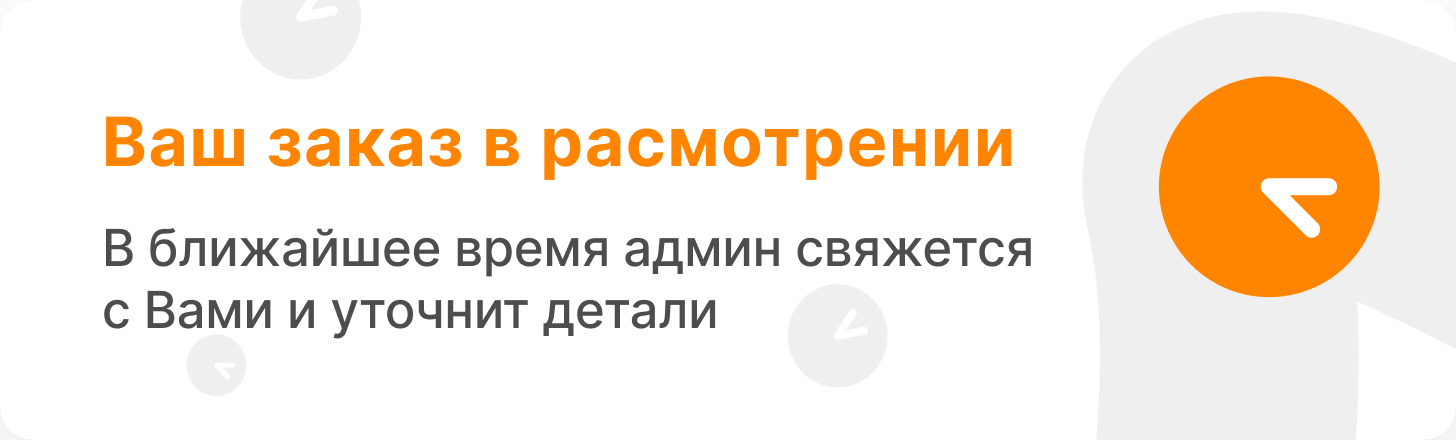
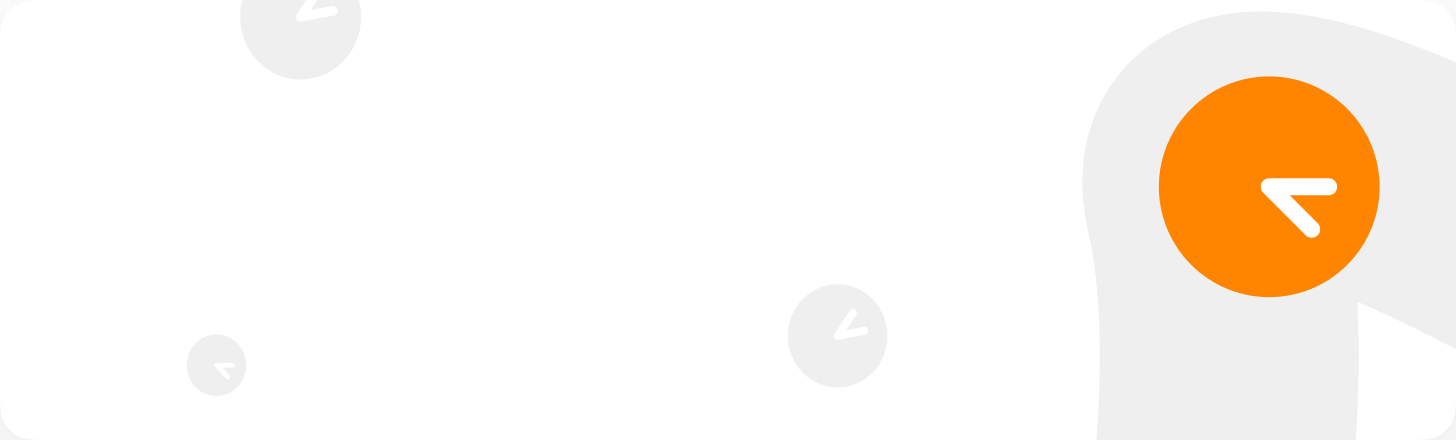
text-changed

Changed region(s): [[0.0618, 0.2659, 0.7109, 0.4136], [0.0618, 0.5023, 0.7109, 0.6205], [0.0618, 0.65, 0.4945, 0.7682]]

diff --git a/src/components/Hero/index.tsx b/src/components/Hero/index.tsx
@@ -13,6 +13,8 @@ import './style.scss';
 import { Pagination } from 'swiper/modules';
 import { Swiper, SwiperSlide } from 'swiper/react';
 
+import { statusMessages } from 'pages/Order/enums';
+
 const Hero = () => {
   const user = JSON.parse(localStorage.getItem('users') ?? '{}');
   const venue = JSON.parse(localStorage.getItem('venue') ?? '{}');
@@ -28,7 +30,33 @@ const Hero = () => {
     phone: `${user.phoneNumber}`,
     venueSlug: venue.slug,
   });
+
   const [orders, setOrders] = useState<IOrder[] | undefined>([]);
+
+  const getStatusData = (serviceMode: number, status: number) => {
+    if (!statusMessages[serviceMode]) {
+      return {
+        text: 'Спасибо, заказ обрабатывается',
+        color: 'text-orange-500',
+      };
+    }
+    
+    const statusObj =
+      statusMessages[serviceMode][status] ||
+      statusMessages[serviceMode][0];
+
+    let colorClass = 'text-orange-500';
+    if (status === 1) {
+      colorClass = 'text-green-500';
+    } else if (status === 7) {
+      colorClass = 'text-red-500';
+    }
+
+    return {
+      text: statusObj.title.text,
+      color: colorClass,
+    };
+  };
 
   useEffect(() => {
     if (fetchedOrders) {
@@ -72,38 +100,45 @@ const Hero = () => {
   };
 
   return (
-    <section className='hero'>
+    <section className="hero">
       {bannersLoading && <p>Загрузка баннеров...</p>}
       {bannersError && <p>Ошибка при загрузке баннеров</p>}
 
-      {/* Единый Swiper для заказов и баннеров */}
       <Swiper
         pagination={{ dynamicBullets: true }}
         modules={[Pagination]}
-        className='hero-swiper'
+        className="hero-swiper"
       >
-        {orders?.map((order) => (
-          <SwiperSlide key={`order-${order.id}`}>
-            <div
-              className='hero__item cursor-pointer'
-              onClick={() => handleOrderClick(order.id)}
-            >
-              <img
-                src={order.status === 0 ? offer1 : offer2}
-                alt={`Order #${order.id}`}
-              />
-            </div>
-          </SwiperSlide>
-        ))}
+        {orders?.map((order) => {
+          const { text, color } = getStatusData(order.serviceMode, order.status);
+
+          return (
+            <SwiperSlide key={`order-${order.id}`}>
+              <div
+                onClick={() => handleOrderClick(order.id)}
+                className="hero__item"
+                style={{
+                  backgroundImage: `url(${
+                    order.status === 0 ? offer1 : offer2
+                  })`,
+                }}
+              >
+                <p className={`text-base md:text-[32px] font-bold ${color}`}>
+                  {text}
+                </p>
+              </div>
+            </SwiperSlide>
+          );
+        })}
 
         {fetchedBanners?.map((banner: IBanner) => (
           <SwiperSlide key={`banner-${banner.id}`}>
             <div
-              className='hero__item banner__item cursor-pointer'
+              className="hero__item banner__item cursor-pointer"
               onClick={() => handleBannerClick(banner.url)}
             >
               <img src={banner.image} alt={banner.title} />
-              <div className='banner__info'>
+              <div className="banner__info">
                 <h3>{banner.title}</h3>
                 <p>{banner.text}</p>
               </div>

diff --git a/src/pages/Order/enums.ts b/src/pages/Order/enums.ts
@@ -88,5 +88,5 @@ export const statusMessages: StatusMessages = {
   },
 };
 
-// data.serviceMode --> 1 (На месте) | 2 (На вынос) | 3 (Доставка)
-// order.status     --> 0 (Ожидание) | 1 (Принят)   | 7 (Отменен)
+// serviceMode === 1 (На месте) | 2 (На вынос) | 3 (Доставка)
+// status === 0 (Ожидание) | 1 (Принят) | 7 (Отменен)

diff --git a/src/components/Hero/style.scss b/src/components/Hero/style.scss
@@ -1,10 +1,6 @@
 .hero {
   &__item {
-    @apply rounded-lg overflow-hidden w-full h-[100px] md:h-[270px];
-
-    img {
-      @apply w-full h-full object-cover;
-    }
+    @apply rounded-lg pl-[24px] md:pl-[50px] overflow-hidden w-full h-[100px] md:h-[270px] flex items-center bg-cover bg-right bg-no-repeat;
   }
 
   &-swiper {
